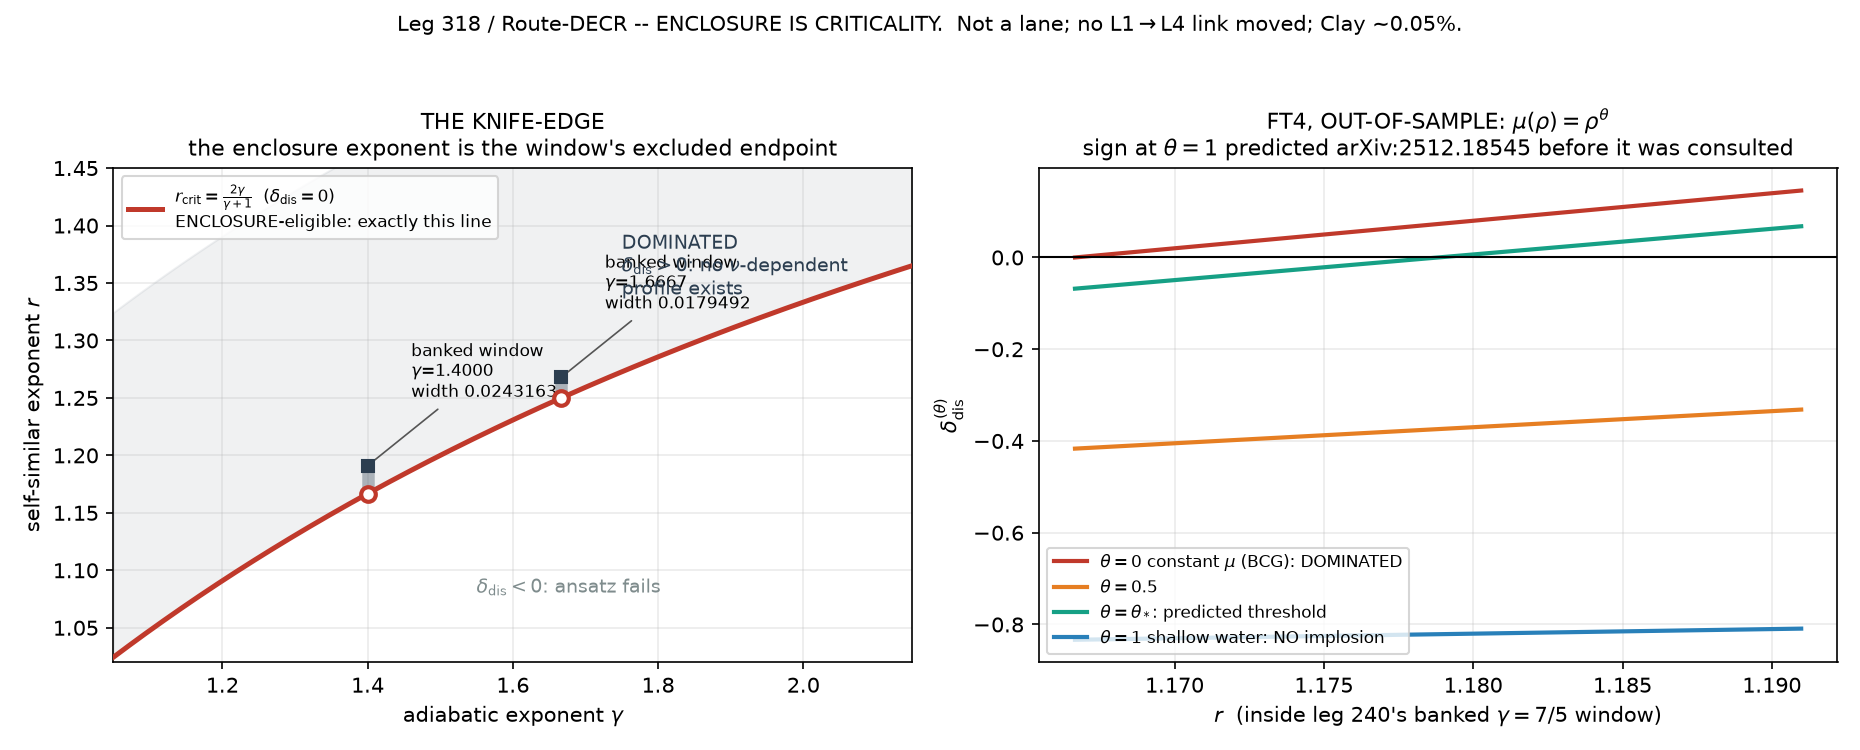
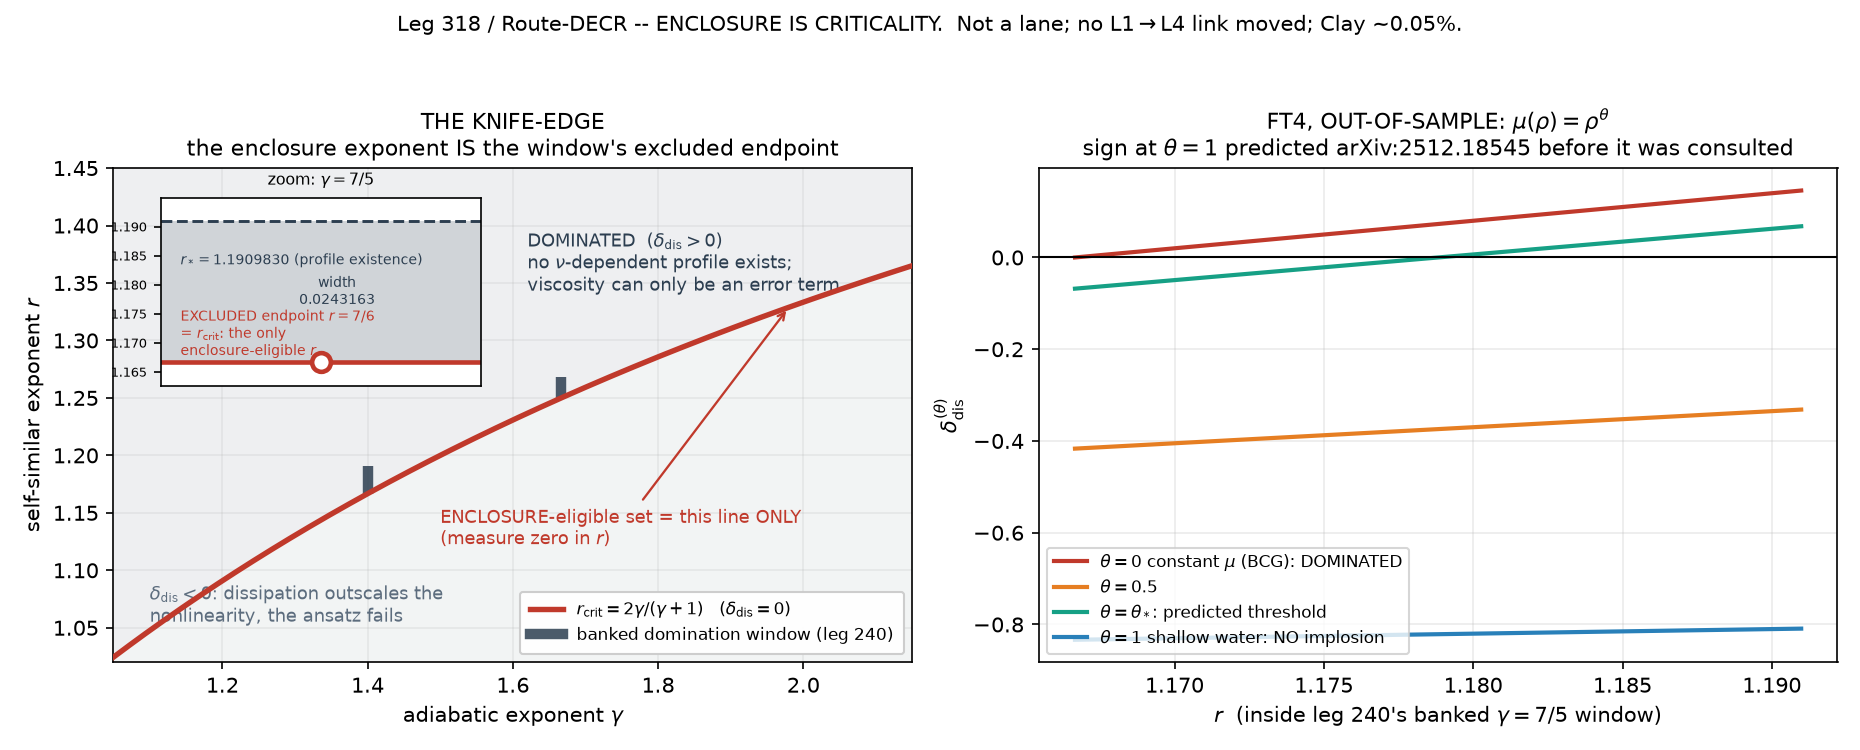
Leg 318: LEG — fig84 legibility: zoom inset for the gamma=7/5 window (0.0243163 wide is invisible at the outer scale), regions shaded and labelled without collisions, the excluded endpoint drawn as an open circle because it is exactly the point neither treatment occupies

diff --git a/experiments/p2_route_decr_v1_scoping.py b/experiments/p2_route_decr_v1_scoping.py
@@ -749,31 +749,55 @@ def make_figure(checks: dict, out: dict) -> None:
     # -- left: the (gamma, r) plane.  The knife-edge IS the window's own lower edge. -----
     g = np.linspace(1.05, 2.15, 400)
     rc = 2 * g / (g + 1)
-    ax1.plot(g, rc, lw=2.4, color="#c0392b", zorder=5,
-             label=r"$r_{\rm crit}=\frac{2\gamma}{\gamma+1}$  ($\delta_{\rm dis}=0$)"
-                   "\nENCLOSURE-eligible: exactly this line")
-    for gg, key, col in ((7 / 5, "7_5", "#2c3e50"), (5 / 3, "5_3", "#2c3e50")):
+    ax1.fill_between(g, rc, 1.45, color="#2c3e50", alpha=0.08, lw=0)
+    ax1.fill_between(g, 1.02, rc, color="#95a5a6", alpha=0.12, lw=0)
+    ax1.plot(g, rc, lw=2.6, color="#c0392b", zorder=5,
+             label=r"$r_{\rm crit}=2\gamma/(\gamma+1)$   ($\delta_{\rm dis}=0$)")
+    ax1.text(1.62, 1.395, "DOMINATED  ($\\delta_{\\rm dis}>0$)\n"
+             "no $\\nu$-dependent profile exists;\n"
+             "viscosity can only be an error term",
+             fontsize=8.5, color="#2c3e50", va="top")
+    ax1.text(1.10, 1.088, "$\\delta_{\\rm dis}<0$: dissipation outscales the\n"
+             "nonlinearity, the ansatz fails",
+             fontsize=8.5, color="#5d6d7e", va="top")
+    ax1.annotate("ENCLOSURE-eligible set = this line ONLY\n(measure zero in $r$)",
+                 xy=(1.98, 2 * 1.98 / 2.98), xytext=(1.50, 1.155),
+                 fontsize=8.5, color="#c0392b", va="top",
+                 arrowprops=dict(arrowstyle="->", lw=1.1, color="#c0392b"))
+    for gg, key in ((7 / 5, "7_5"), (5 / 3, "5_3")):
         w = checks[f"window_gamma_{key}"]
-        ax1.plot([gg, gg], [w["lo"], w["hi"]], color=col, lw=6, alpha=0.35, solid_capstyle="butt")
-        ax1.plot(gg, w["lo"], "o", ms=7, mfc="white", mec="#c0392b", mew=2, zorder=6)
-        ax1.plot(gg, w["hi"], "s", ms=6, color=col, zorder=6)
-        ax1.annotate(
-            f"banked window\n$\\gamma$={gg:.4f}\nwidth {w['width']:.7f}",
-            xy=(gg, w["hi"]), xytext=(gg + 0.06, w["hi"] + 0.06), fontsize=8,
-            arrowprops=dict(arrowstyle="-", lw=0.8, color="#555"),
-        )
-    ax1.fill_between(g, rc, rc + 0.30, color="#2c3e50", alpha=0.07)
-    ax1.text(1.75, 1.34, "DOMINATED\n$\\delta_{\\rm dis}>0$: no $\\nu$-dependent\nprofile exists",
-             fontsize=9, color="#2c3e50")
-    ax1.text(1.55, 1.08, "$\\delta_{\\rm dis}<0$: ansatz fails", fontsize=9, color="#7f8c8d")
+        ax1.plot([gg, gg], [w["lo"], w["hi"]], color="#2c3e50", lw=5, alpha=0.85,
+                 solid_capstyle="butt", zorder=4)
+    ax1.plot([], [], color="#2c3e50", lw=5, alpha=0.85,
+             label="banked domination window (leg 240)")
     ax1.set_xlabel(r"adiabatic exponent $\gamma$")
     ax1.set_ylabel(r"self-similar exponent $r$")
-    ax1.set_title("THE KNIFE-EDGE\nthe enclosure exponent is the window's excluded endpoint",
+    ax1.set_title("THE KNIFE-EDGE\nthe enclosure exponent IS the window's excluded endpoint",
                   fontsize=10.5)
-    ax1.legend(fontsize=8, loc="upper left")
+    ax1.legend(fontsize=8, loc="lower right", framealpha=0.97, borderpad=0.6)
     ax1.set_xlim(1.05, 2.15)
     ax1.set_ylim(1.02, 1.45)
-    ax1.grid(alpha=0.25)
+    ax1.grid(alpha=0.2)
+
+    # inset: the gamma = 7/5 window is only 0.0243163 wide, invisible at the outer scale
+    w = checks["window_gamma_7_5"]
+    axi = ax1.inset_axes((0.06, 0.56, 0.40, 0.38))
+    axi.axhspan(w["lo"], w["hi"], color="#2c3e50", alpha=0.22, lw=0)
+    axi.axhline(w["lo"], color="#c0392b", lw=2.2)
+    axi.axhline(w["hi"], color="#2c3e50", lw=1.4, ls="--")
+    axi.plot(0.5, w["lo"], "o", ms=9, mfc="white", mec="#c0392b", mew=2.2, zorder=6,
+             clip_on=False)
+    axi.text(0.06, w["lo"] + 0.0012, "EXCLUDED endpoint $r=7/6$\n= $r_{\\rm crit}$: the only\n"
+             "enclosure-eligible $r$", fontsize=6.8, color="#c0392b")
+    axi.text(0.06, w["hi"] - 0.0075, "$r_*=1.1909830$ (profile existence)", fontsize=6.8,
+             color="#2c3e50")
+    axi.text(0.55, 0.5 * (w["lo"] + w["hi"]), "width\n0.0243163", fontsize=6.8,
+             color="#2c3e50", ha="center", va="center")
+    axi.set_xlim(0, 1)
+    axi.set_ylim(w["lo"] - 0.004, w["hi"] + 0.004)
+    axi.set_xticks([])
+    axi.tick_params(labelsize=6)
+    axi.set_title(r"zoom: $\gamma=7/5$", fontsize=7.5)
 
     # -- right: the out-of-sample degenerate-viscosity test (FT4) ------------------------
     w = checks["window_gamma_7_5"]
